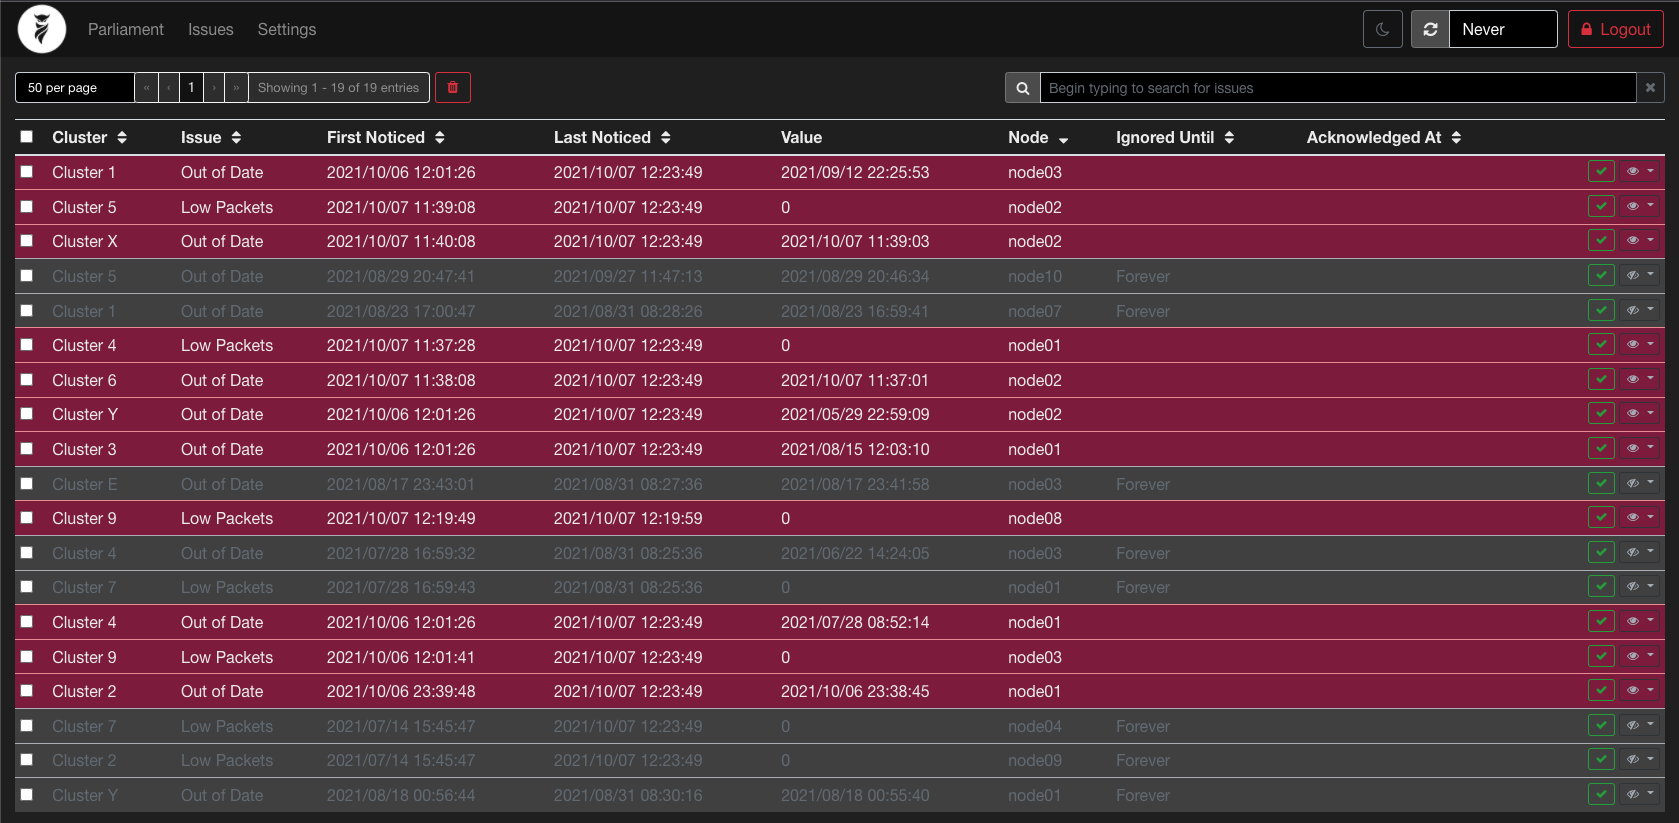
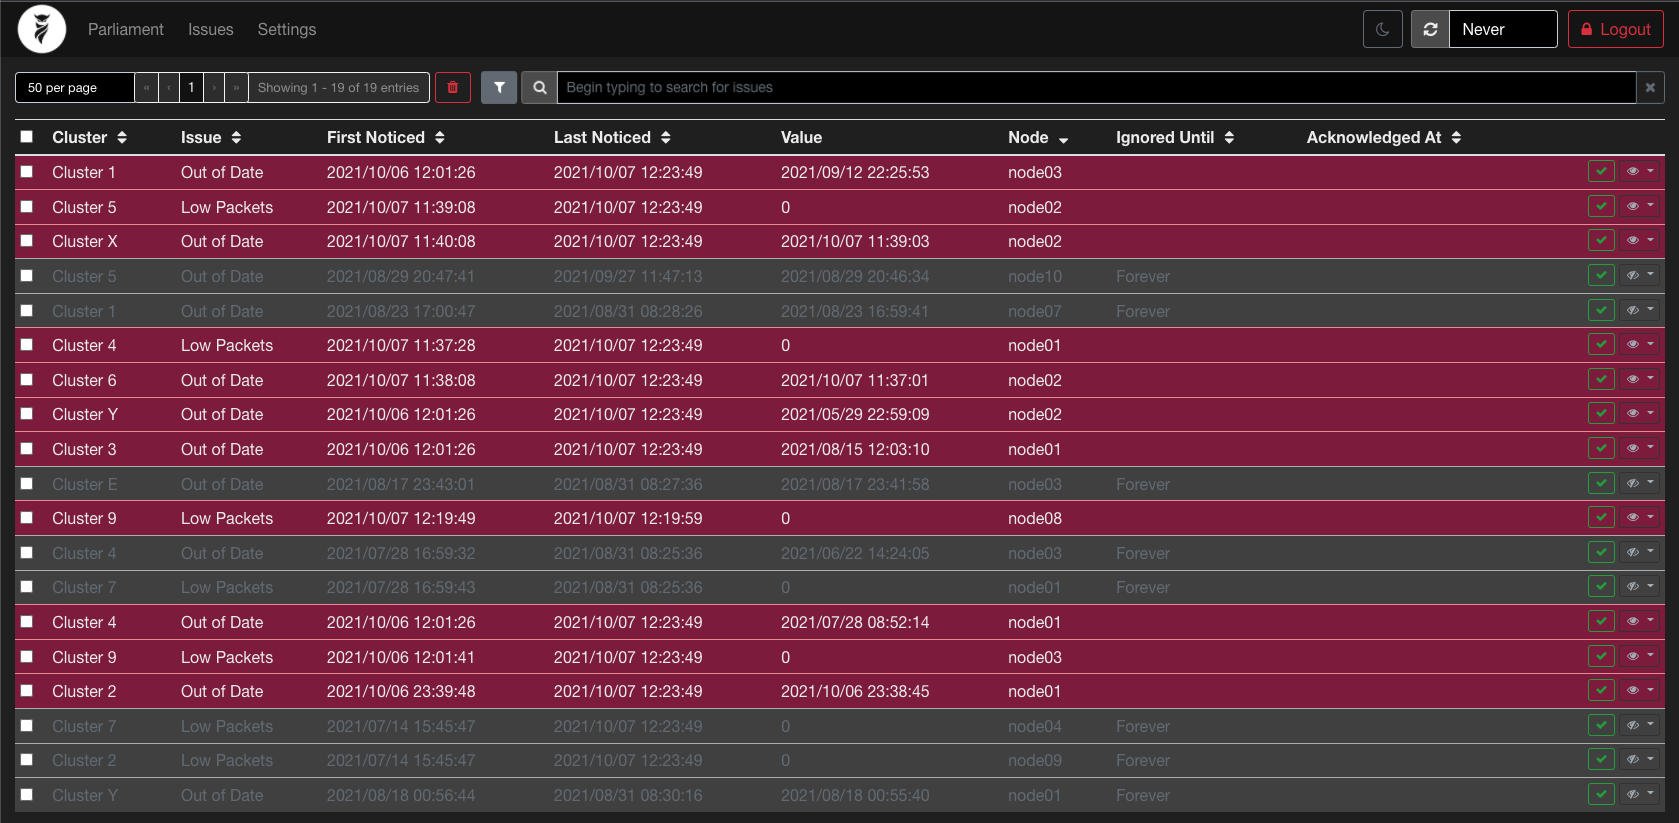
update parliament info

Changed region(s): [[0.2787, 0.0608, 0.7433, 0.1519]]

diff --git a/parliament.html b/parliament.html
@@ -68,7 +68,9 @@ title: Parliament
             </a>
           </p>
           <p class="lead text-thin text-center">
+            <img class="arkime-logo black-arkime d-none d-sm-none d-md-none d-lg-inline mr-2" height="50px" />
             Did you know that a Parliament is a group of owls?
+            <img class="arkime-logo black-arkime d-none d-sm-none d-md-none d-lg-inline ml-2" height="50px" />
           </p>
         </div>
       </div>
@@ -234,14 +236,22 @@ title: Parliament
               Search for issues within your Parliament by name cluster name,
               node name, and issue type.
             </p>
-              <h5>
-                <span class="primary-theme-text fa fa-fw fa-sort fa-lg">
-                </span>&nbsp;
-                Sort Issues
-              </h5>
-              <p>
-                Sort the issues by field to display the issues relevant to you.
-              </p>
+            <h5>
+              <span class="primary-theme-text fa fa-fw fa-filter fa-lg">
+              </span>&nbsp;
+              Filter Issues
+            </h5>
+            <p>
+              Use the filter dropdown to filter out issues you don't want to view.
+            </p>
+            <h5>
+              <span class="primary-theme-text fa fa-fw fa-sort fa-lg">
+              </span>&nbsp;
+              Sort Issues
+            </h5>
+            <p>
+              Sort the issues by field to display the issues relevant to you.
+            </p>
             <h5>
               <span class="primary-theme-text fa fa-check fa-fw fa-lg">
               </span>&nbsp;
@@ -341,12 +351,37 @@ title: Parliament
             <h5>
               <span class="primary-theme-text fa fa-lock fa-fw fa-lg">
               </span>&nbsp;
-              Password
+              Password (<strong>deprecated</strong>)
             </h5>
             <p>
+              <strong>These passwords are being deprecated</strong>, please use the Auth section
+              to configure access to your Parliament.
+              <br>
               You can configure a new password, or update your current password.
               <strong>Note:</strong> Parliament is readonly if there is no password set.
             </p>
+            <h5>
+              <span class="primary-theme-text fa fa-key fa-fw fa-lg">
+              </span>&nbsp;
+              Auth
+            </h5>
+            <p>
+              Auth uses the the Arkime User's database for Parliament access.
+            </p>
+            <ul>
+              <li>
+                All Arkime users can view the Parliament (like dashboard only mode).
+              </li>
+              <li>
+                Users with the "parliamentUser" role can ack, ignore, and delete
+                issues within the Parliament.
+              </li>
+              <li>
+                Users with the "parliamentAdmin" role can do everything a "parliamentUser"
+                can, plus they can configure the Parliament by adding/removing/updating
+                groups/clusters and manage the Parliament settings.
+              </li>
+            </ul>
             <h5>
               <span class="primary-theme-text fa fa-bell fa-fw fa-lg">
               </span>&nbsp;
